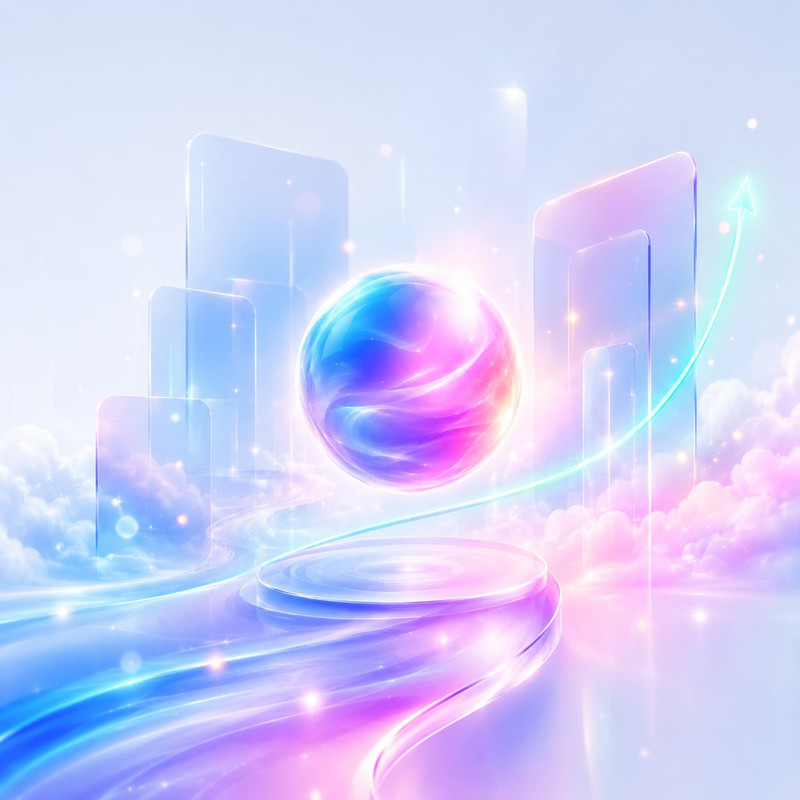
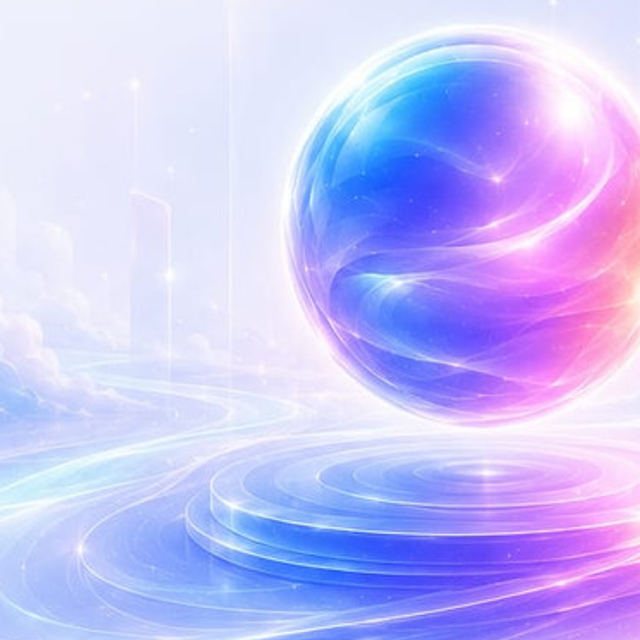
Add the hero orb and token thumbnail images (#63)
Use real imagery for the landing: an orb hero image (public/hero.png, picked up
automatically by HeroVisual) and four token thumbnails for the interface
preview, replacing the CSS gradient placeholders. The preview cards now render
the images, with the Instant and Campaign badges baked into the art.

diff --git a/web/components/DashboardPreview.tsx b/web/components/DashboardPreview.tsx
@@ -31,18 +31,17 @@ const NAV: NavItem[] = [
 type Token = {
   name: string;
   ticker: string;
-  badge: "Instant" | "Campaign";
+  slug: string;
   metric: string;
   sub: string;
   progress: number;
-  art: string;
 };
 
 const TOKENS: Token[] = [
-  { name: "Nebula", ticker: "NEBULA", badge: "Instant", metric: "24.6 ETH", sub: "1,250 holders", progress: 78, art: "from-violet-500 via-fuchsia-500 to-indigo-500" },
-  { name: "DreamLand", ticker: "DREAM", badge: "Campaign", metric: "15.3 ETH", sub: "532 backers", progress: 51, art: "from-fuchsia-500 via-purple-500 to-pink-500" },
-  { name: "Aurora", ticker: "AURORA", badge: "Instant", metric: "52.1 ETH", sub: "2,341 holders", progress: 92, art: "from-indigo-500 via-violet-500 to-purple-600" },
-  { name: "BuddyAI", ticker: "BUDDY", badge: "Campaign", metric: "8.7 ETH", sub: "287 backers", progress: 29, art: "from-purple-500 via-violet-500 to-fuchsia-500" },
+  { name: "Nebula", ticker: "NEBULA", slug: "nebula", metric: "24.6 ETH", sub: "1,250 holders", progress: 78 },
+  { name: "DreamLand", ticker: "DREAM", slug: "dreamland", metric: "15.3 ETH", sub: "532 backers", progress: 51 },
+  { name: "Aurora", ticker: "AURORA", slug: "aurora", metric: "52.1 ETH", sub: "2,341 holders", progress: 92 },
+  { name: "BuddyAI", ticker: "BUDDY", slug: "buddyai", metric: "8.7 ETH", sub: "287 backers", progress: 29 },
 ];
 
 const ACTIVITY: { name: string; what: string; meta: string }[] = [
@@ -52,12 +51,15 @@ const ACTIVITY: { name: string; what: string; meta: string }[] = [
   { name: "BUDDY", what: "New backer", meta: "7m ago" },
 ];
 
-function Thumb({ art }: { art: string }) {
+function Thumb({ slug, name }: { slug: string; name: string }) {
   return (
-    <div className={`relative h-20 w-full overflow-hidden rounded-xl bg-gradient-to-br ${art}`}>
-      <div className="absolute inset-0 [background:radial-gradient(60%_60%_at_30%_25%,rgba(255,255,255,0.55),transparent)]" />
-      <span className="absolute right-3 top-3 h-1.5 w-1.5 rounded-full bg-white/80" />
-      <span className="absolute left-6 bottom-4 h-1 w-1 rounded-full bg-white/70" />
+    <div className="relative h-24 w-full overflow-hidden rounded-xl bg-slate-100">
+      {/* eslint-disable-next-line @next/next/no-img-element */}
+      <img
+        src={`/tokens/${slug}.png`}
+        alt={name}
+        className="h-full w-full object-cover"
+      />
     </div>
   );
 }
@@ -117,16 +119,7 @@ export function DashboardPreview() {
             <div className="mt-4 grid gap-3 sm:grid-cols-2">
               {TOKENS.map((t) => (
                 <div key={t.ticker} className="rounded-2xl border border-slate-100 bg-white p-3">
-                  <div className="relative">
-                    <Thumb art={t.art} />
-                    <span
-                      className={`absolute left-2 top-2 rounded-full px-2 py-0.5 text-[10px] font-bold text-white ${
-                        t.badge === "Instant" ? "bg-base-violet" : "bg-base-pink"
-                      }`}
-                    >
-                      {t.badge}
-                    </span>
-                  </div>
+                  <Thumb slug={t.slug} name={t.name} />
                   <div className="mt-2.5 flex items-baseline justify-between">
                     <span className="text-sm font-bold text-slate-800">{t.name}</span>
                     <span className="text-[11px] font-semibold text-slate-400">{t.ticker}</span>
